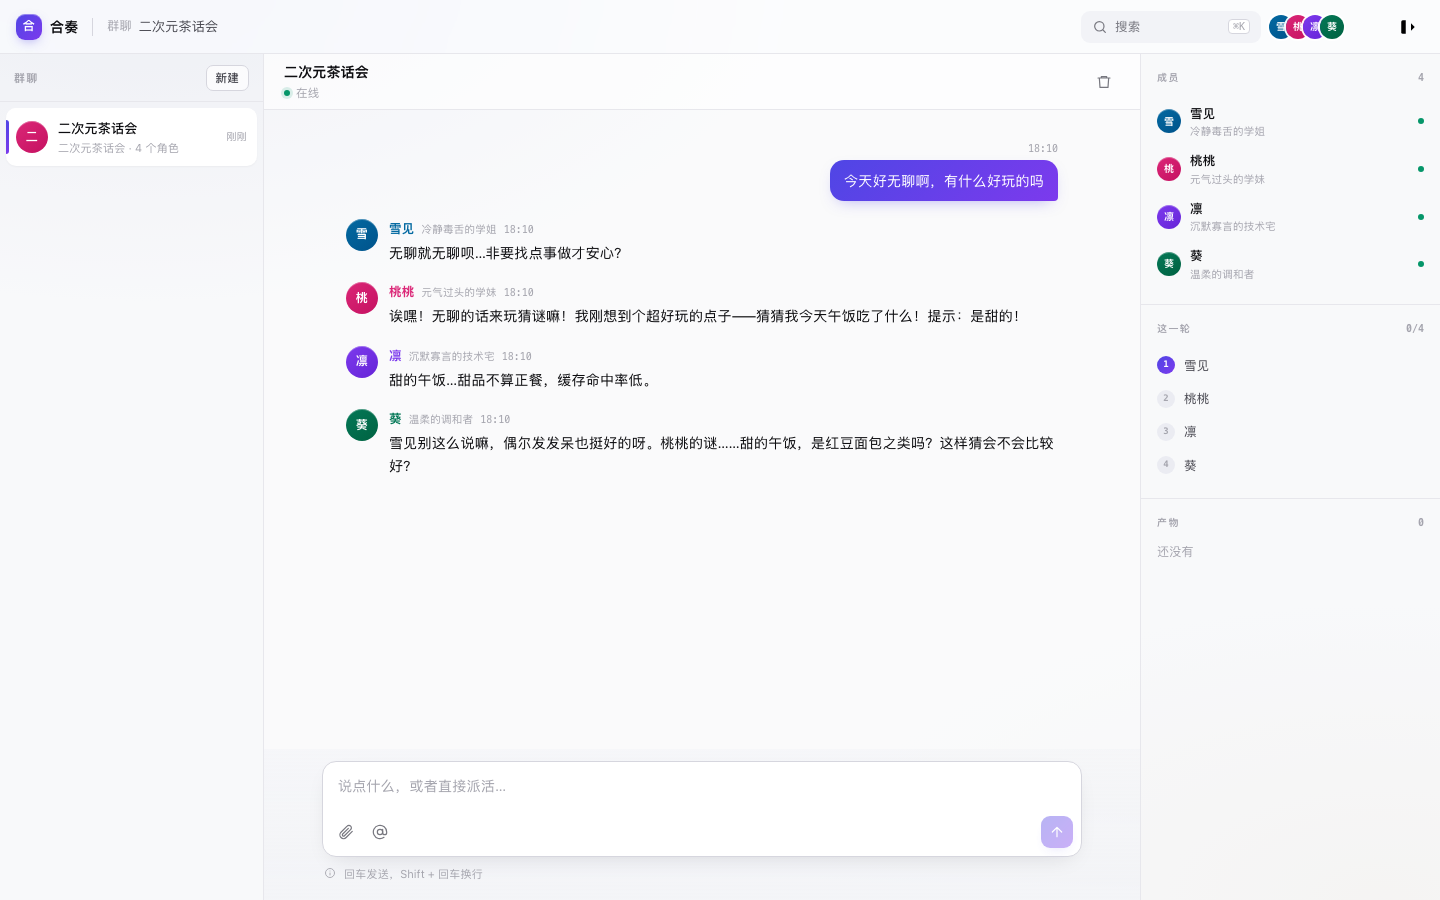
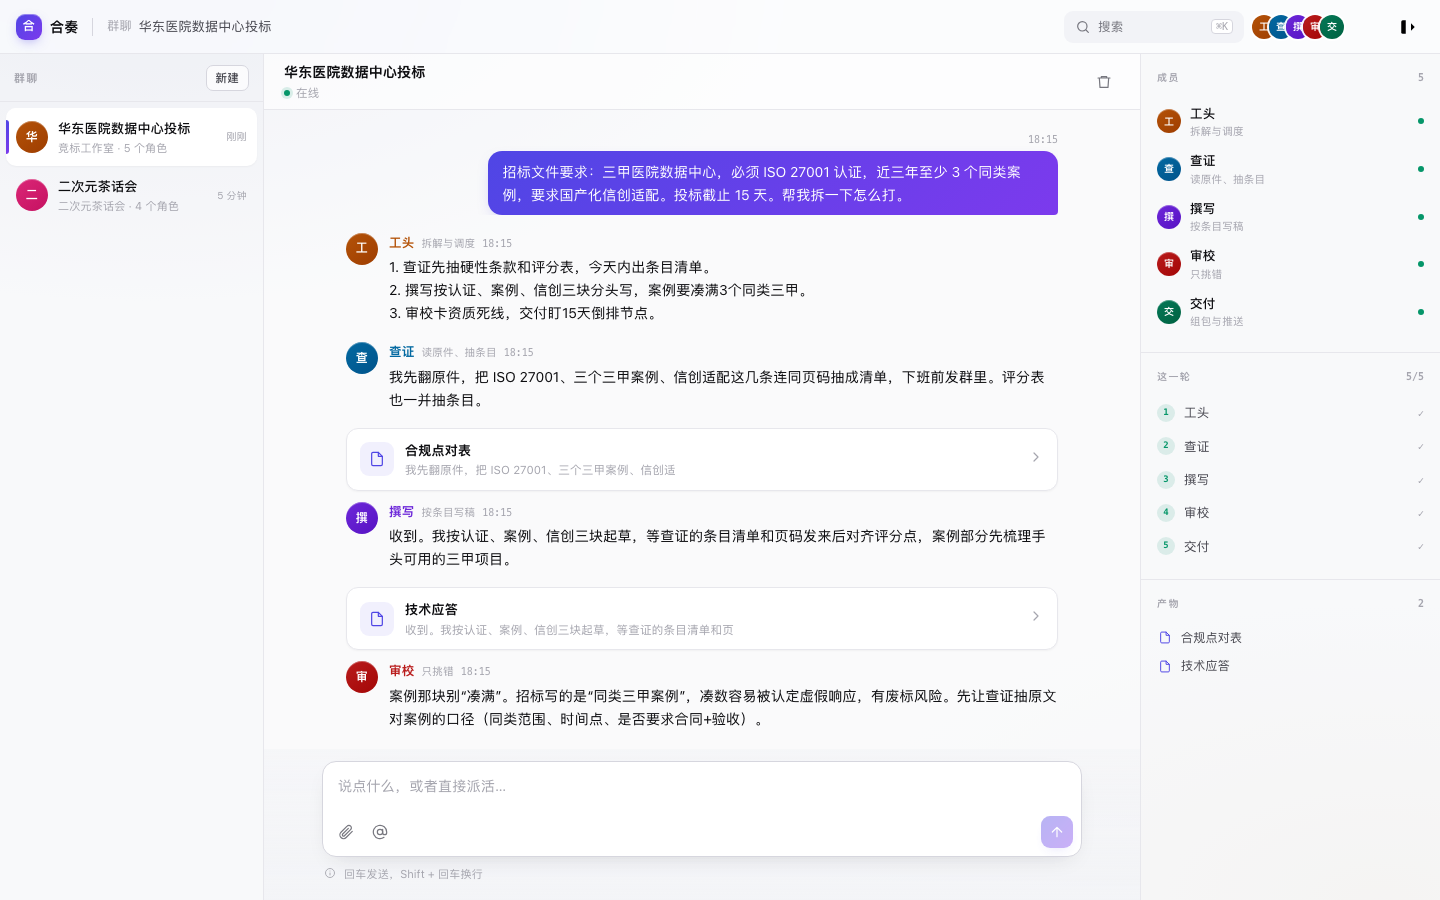
历史消息恢复产物卡，产物面板同步
- 加载历史时按角色 artifact 定义补渲染文件卡
- 产物列表面板从历史重建
- 竞标场景实测：审校抓到工头「凑满」措辞的废标风险

diff --git a/web/app/app.js b/web/app/app.js
@@ -261,6 +261,7 @@
 
     try {
       const msgs = await api('/v1/conversations/' + id + '/messages?limit=100');
+      artifacts.length = 0;
       msgs.forEach(m => {
         const agent = state.agents.find(a => a.name === m.agent);
         addMsg({
@@ -271,6 +272,11 @@
           me: m.role === 'user',
           time: m.createdAt,
         });
+        // 有产物定义的角色，历史里也补一张文件卡
+        if (agent && agent.artifact && m.role === 'assistant') {
+          addArtifact(agent.name, agent.artifact, m.content);
+          appendArtifactCard(agent.artifact, m.content.slice(0, 28));
+        }
       });
       if (!msgs.length) {
         addSysNote('群已建好，说第一句话试试');
@@ -350,6 +356,27 @@
   }
 
   const artifacts = [];
+
+  function buildArtifactCard(title, detail) {
+    const card = document.createElement('div');
+    card.className = 'artifact';
+    card.innerHTML = `
+      <span class="fi">
+        <svg class="ic" viewBox="0 0 24 24"><path d="M14 2H6a2 2 0 0 0-2 2v16a2 2 0 0 0 2 2h12a2 2 0 0 0 2-2V8z"/><path d="M14 2v6h6"/></svg>
+      </span>
+      <div>
+        <div class="an">${esc(title)}</div>
+        <div class="ad">${esc(detail || '')}</div>
+      </div>
+      <span class="go"><svg class="ic" viewBox="0 0 24 24"><path d="m9 18 6-6-6-6"/></svg></span>`;
+    card.addEventListener('click', () => toast('打开 ' + title));
+    return card;
+  }
+
+  function appendArtifactCard(title, detail) {
+    $('#msgWrap').appendChild(buildArtifactCard(title, detail));
+  }
+
   function addArtifact(name, title, detail) {
     artifacts.push({ name, title, detail });
     $('#artifactCount').textContent = artifacts.length;
@@ -474,19 +501,7 @@
 
       if (ev.type === 'artifact') {
         addArtifact(ev.name, ev.title, ev.detail);
-        const card = document.createElement('div');
-        card.className = 'artifact';
-        card.innerHTML = `
-          <span class="fi">
-            <svg class="ic" viewBox="0 0 24 24"><path d="M14 2H6a2 2 0 0 0-2 2v16a2 2 0 0 0 2 2h12a2 2 0 0 0 2-2V8z"/><path d="M14 2v6h6"/></svg>
-          </span>
-          <div>
-            <div class="an">${esc(ev.title)}</div>
-            <div class="ad">${esc(ev.detail || '')}</div>
-          </div>
-          <span class="go"><svg class="ic" viewBox="0 0 24 24"><path d="m9 18 6-6-6-6"/></svg></span>`;
-        card.addEventListener('click', () => toast('打开 ' + ev.title));
-        container.appendChild(card);
+        container.appendChild(buildArtifactCard(ev.title, ev.detail));
         scrollBottom();
         return;
       }

diff --git a/web/app/index.html b/web/app/index.html
@@ -4,7 +4,7 @@
 <meta charset="UTF-8">
 <meta name="viewport" content="width=device-width,initial-scale=1">
 <title>合奏 Ensemble</title>
-<link rel="stylesheet" href="app.css?v=4">
+<link rel="stylesheet" href="app.css?v=5">
 </head>
 <body>
 
@@ -187,6 +187,6 @@
 
 <div id="toast"></div>
 
-<script src="app.js?v=4"></script>
+<script src="app.js?v=5"></script>
 </body>
 </html>
